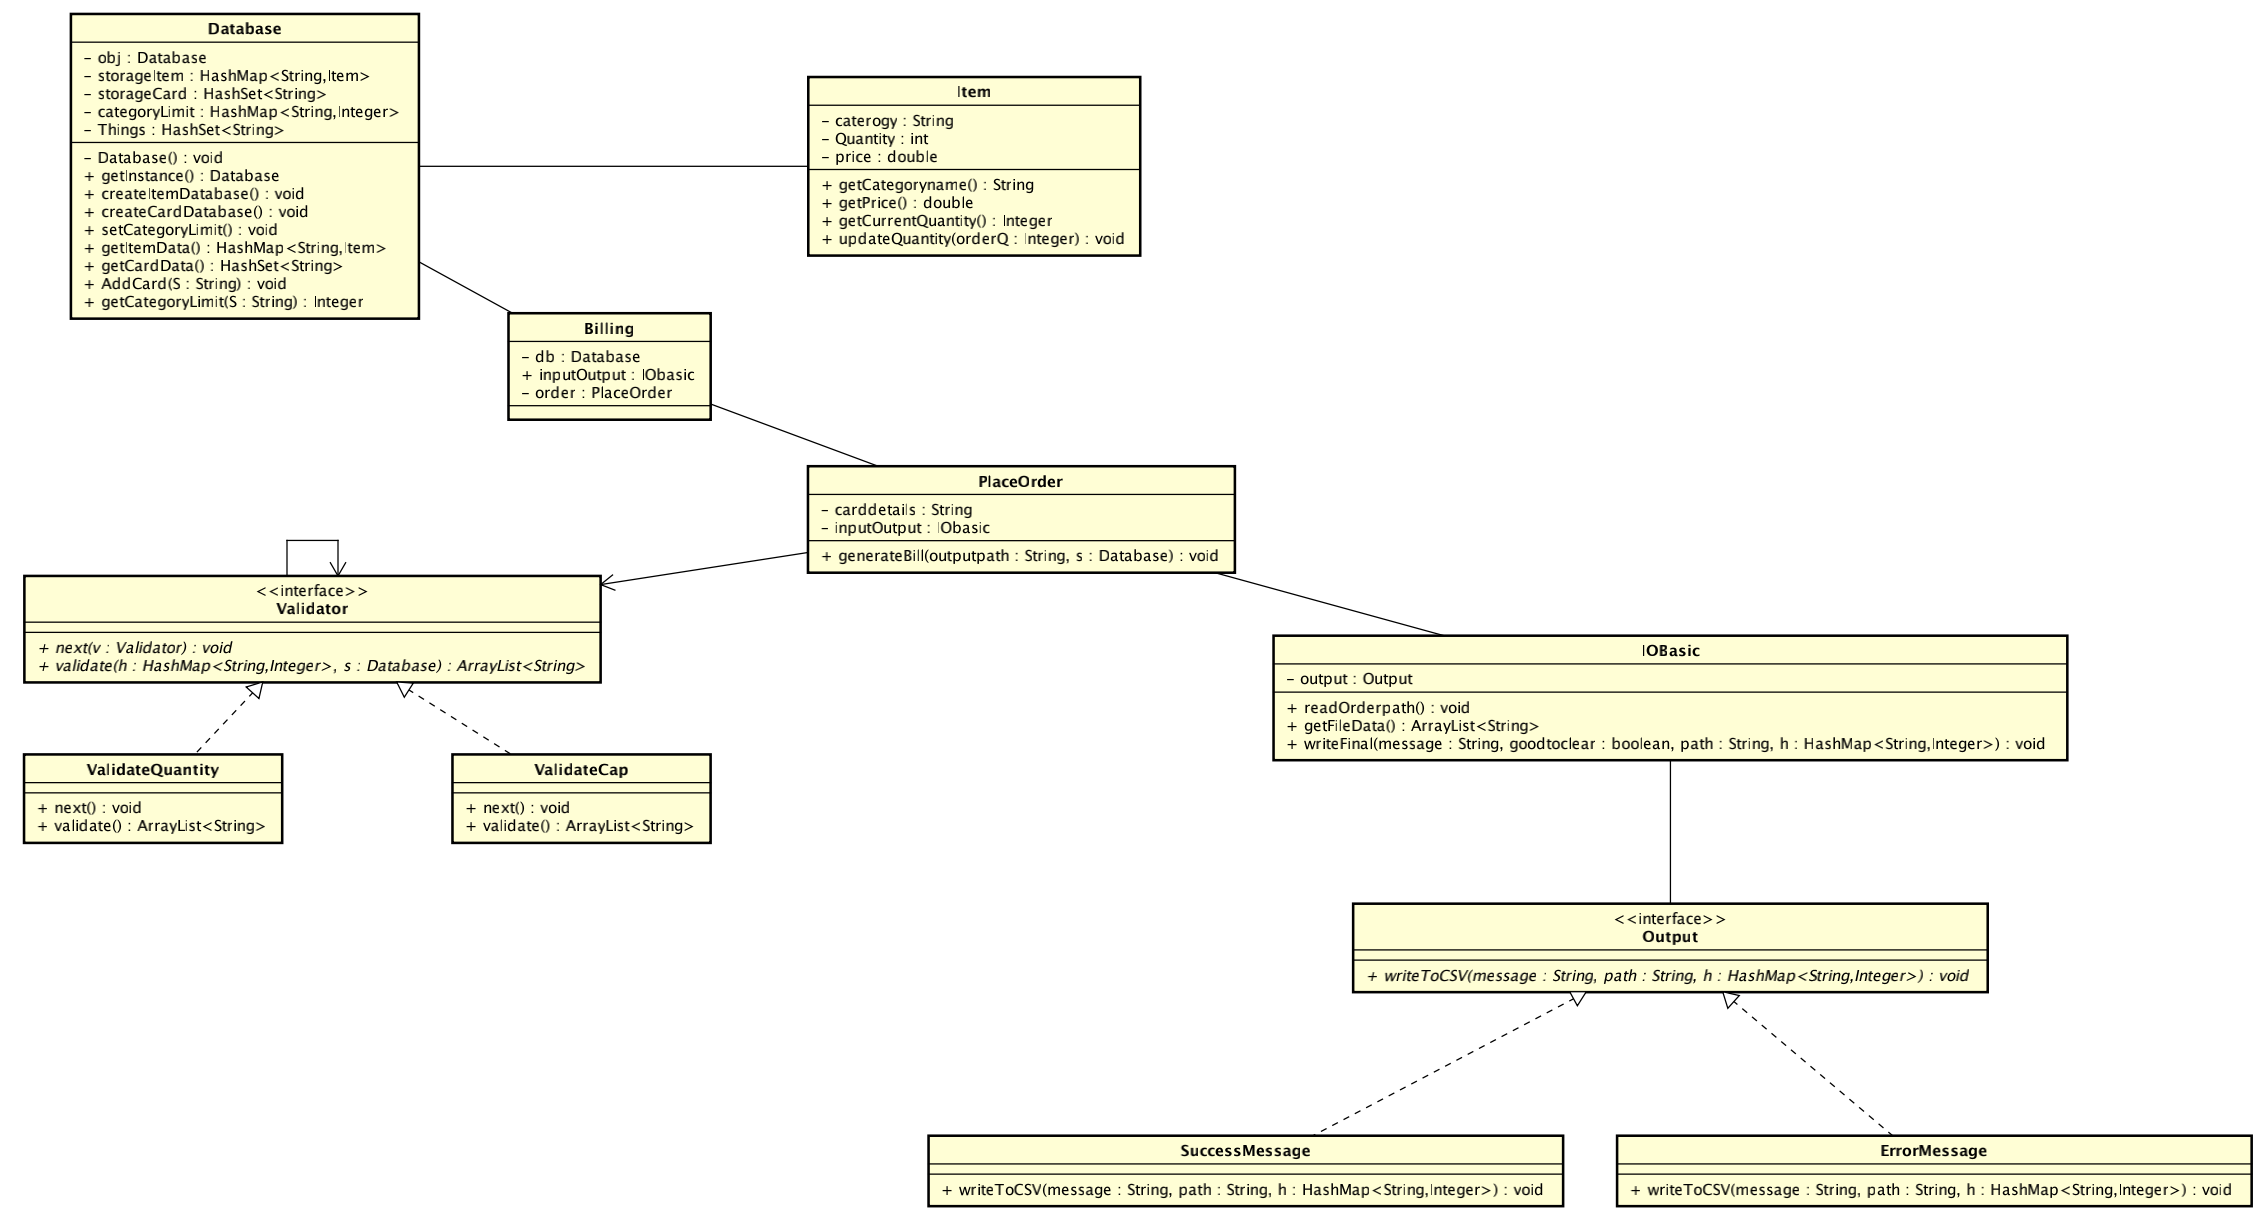
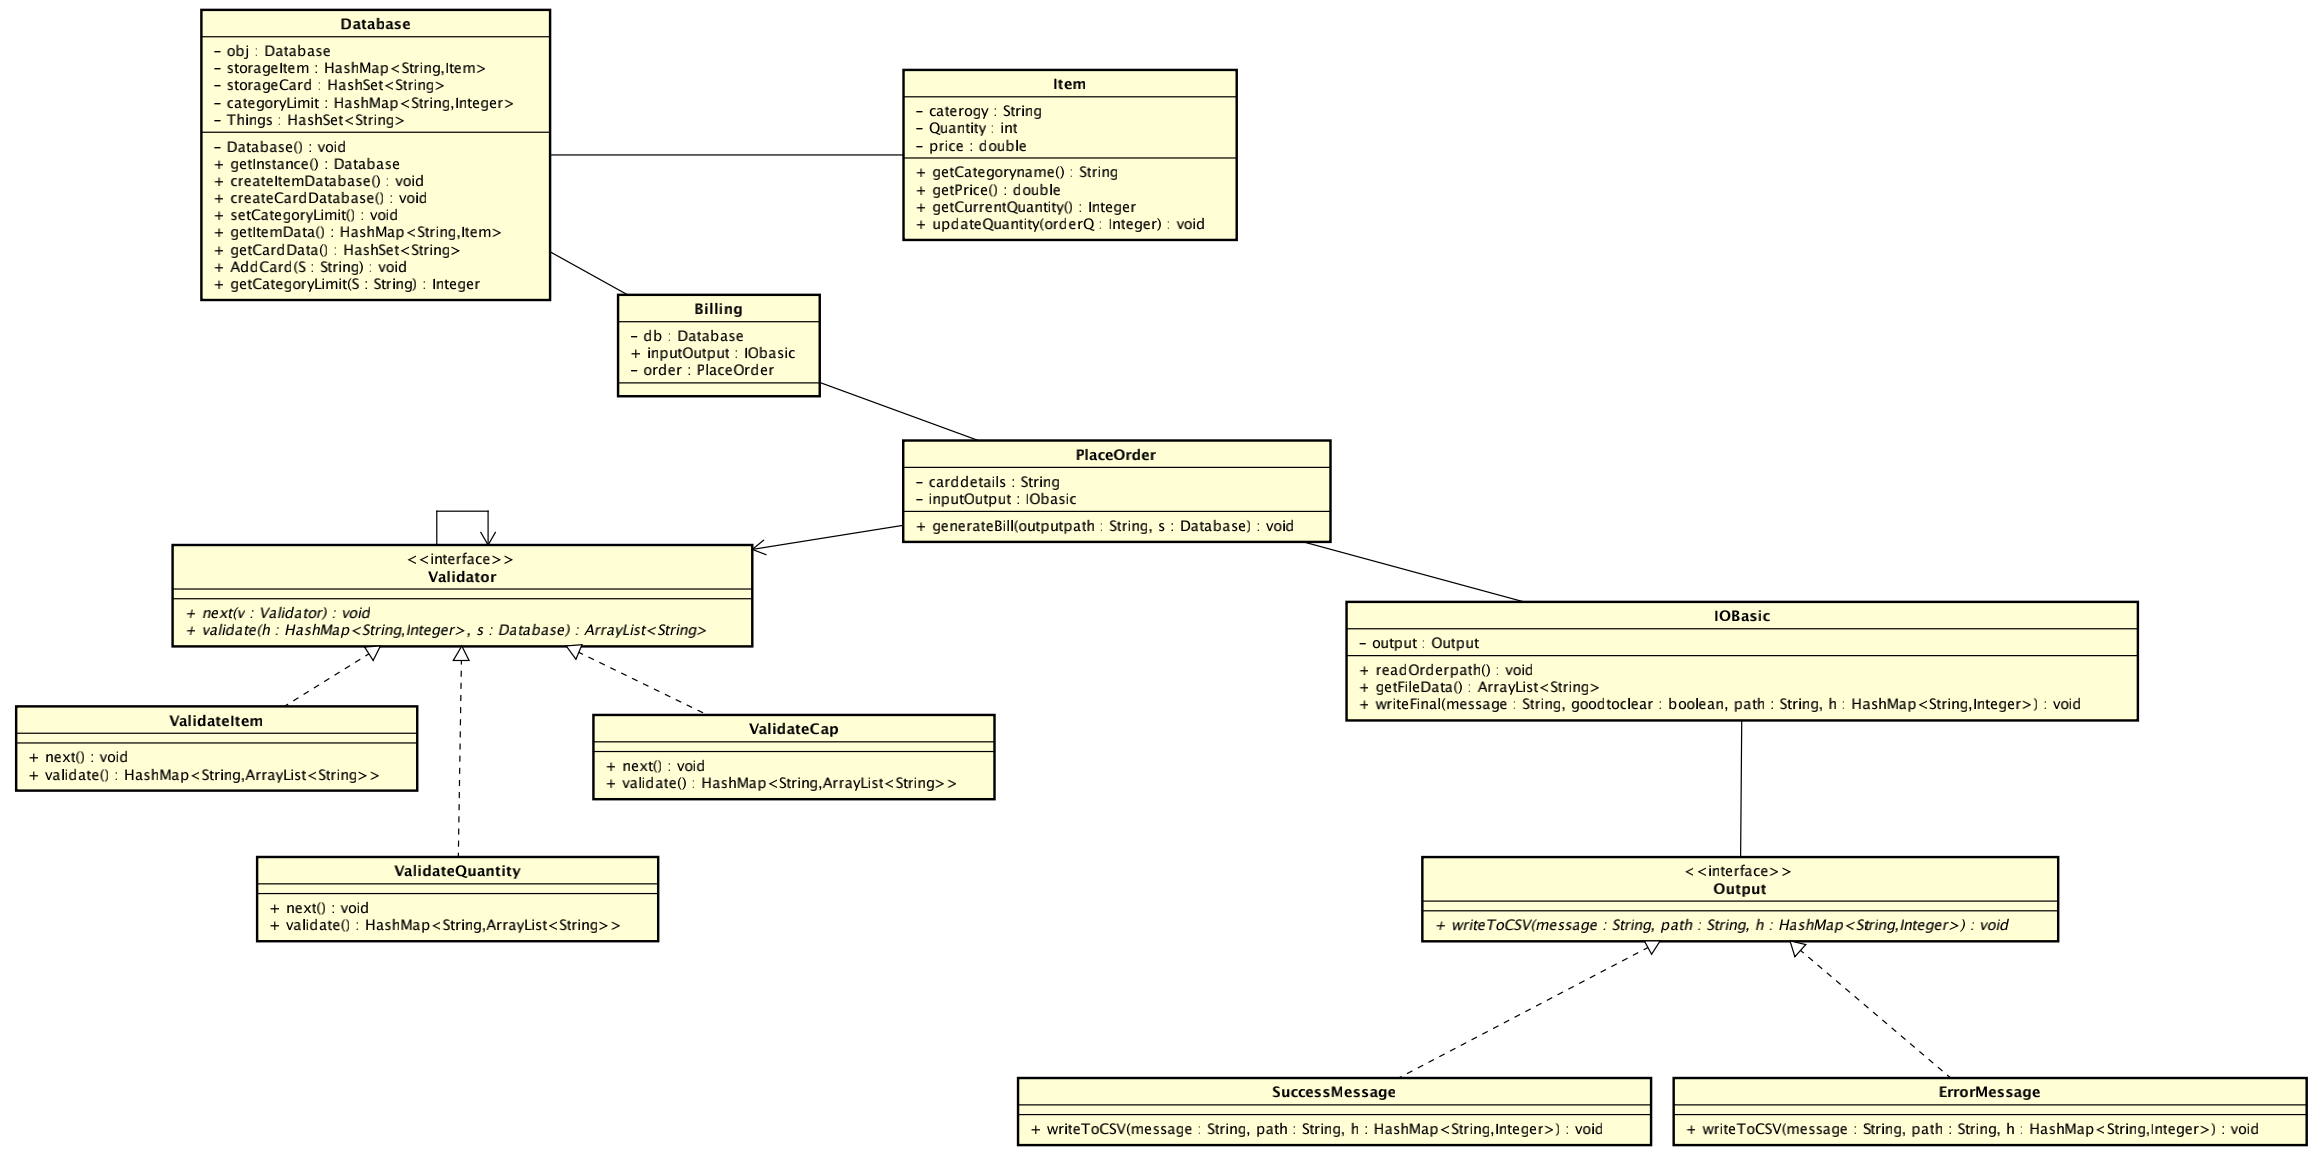
Update to diagram

diff --git a/Individual_project_CMPE202/src/order/PlacedOrder.java b/Individual_project_CMPE202/src/order/PlacedOrder.java
@@ -6,6 +6,7 @@ import java.util.*;
 import IO.IObasic;
 import project.Database;
 import project.Validate.ValidateCap;
+import project.Validate.ValidateItem;
 import project.Validate.ValidateQuantity;
 import project.Validate.Validator;
 
@@ -19,9 +20,11 @@ public class PlacedOrder {
         inputfile = this.inputOutput.getFileData();
         Double totalOrder = 0.0;
         StringBuilder sb = new StringBuilder();
+        Validator things = new ValidateItem();
         Validator quantity = new ValidateQuantity();
         Validator stock = new ValidateCap();
         
+        things.next(quantity);
         quantity.next(stock);
         
         HashMap<String, Integer> BillOrder = new HashMap<String, Integer>();
@@ -39,13 +42,20 @@ public class PlacedOrder {
         boolean goodTogo = true;
         HashMap<String,ArrayList<String>> ans1 = new HashMap<String,ArrayList<String>> ();
         ArrayList<String> ans2 = new ArrayList<String>();
-        ans1 = quantity.validate(BillOrder, s);
+        ans1 = things.validate(BillOrder, s);
         Iterator it_ans1 = ans1.entrySet().iterator();
         HashMap.Entry pair_ans1 = (HashMap.Entry)it_ans1.next();
         String s1 = (String) pair_ans1.getKey();
         ans2 = (ArrayList<String>) pair_ans1.getValue();
         if(ans2.size()!=0){
         	if(s1 == "1") {
+        		finalOutput = "Following items don't exist \n";
+	            for (String num : ans2) { 	
+	                finalOutput += num + "\n"; 		
+	            }
+	            goodTogo = false;
+        	}
+        	else if(s1 == "2") {
         		finalOutput = "Quantity more than the storage amount. Please reduce the quantity for \n";
 	            for (String num : ans2) { 	
 	                finalOutput += num + "\n"; 		
@@ -69,7 +79,8 @@ public class PlacedOrder {
         	Iterator<String> it_card = mp.iterator();
         	boolean hasCard = false;
         	while(it_card.hasNext()) {
-        		if(it_card.next() == carddetails) {
+        		String x = it_card.next();
+        		if(x.equals(carddetails)) {
         			hasCard = true;
         			break;
         		}

diff --git a/Individual_project_CMPE202/src/project/Database.java b/Individual_project_CMPE202/src/project/Database.java
@@ -7,6 +7,7 @@ public class Database {
 	private static Database obj;
 	HashMap<String, Item> storageItem = new HashMap<String, Item>();
 	HashSet<String> storageCard = new HashSet<String>();
+	HashSet<String> things = new HashSet<String>();
 	HashMap<String, Integer> categoryLimit = new HashMap<String, Integer>();
 	private Database() {
 		
@@ -24,14 +25,14 @@ public class Database {
 		storageItem.put("Shampoo", new Item("Essentials", 200, 10));
 		storageItem.put("Milk", new Item("Essentials", 100, 5));
 		storageItem.put("Perfume", new Item("Luxury", 50, 50));
-		storageItem.put("chocolates", new Item("Luxury", 300, 3));
+		storageItem.put("Chocolates", new Item("Luxury", 300, 3));
 		storageItem.put("Handbag", new Item("Luxury", 75, 150));
 		storageItem.put("Wallet", new Item("Luxury", 100, 100));
 		storageItem.put("Bedsheet", new Item("Misc", 150, 75));
 		storageItem.put("Footware", new Item("Misc", 200, 25));
 		storageItem.put("HomeDecorPiece", new Item("Misc", 100, 40));
-		storageItem.put("Pen", new Item("Misc", 400, 3));
-		storageItem.put("Pencil", new Item("Misc", 400, 3));
+		storageItem.put("pen", new Item("Misc", 400, 3));
+		storageItem.put("pencil", new Item("Misc", 400, 3));
 	}
 	
 	void createCardDatabase(){
@@ -47,6 +48,22 @@ public class Database {
 		categoryLimit.put("Misc", 6);
 	}
 	
+	void setThings() {
+		things.add("Clothes");
+		things.add("Soap");
+		things.add("Shampoo");
+		things.add("Milk");
+		things.add("Perfume");
+		things.add("Chocolates");
+		things.add("Handbag");
+		things.add("Wallet");
+		things.add("Bedsheet");
+		things.add("Footware");
+		things.add("HomeDecorPiece");
+		things.add("pen");
+		things.add("pencil");
+	}
+	
 	
 	public HashMap<String, Item> getItemData() {
 		return storageItem;
@@ -54,6 +71,10 @@ public class Database {
 	
 	public HashSet<String> getCardData(){
 		return storageCard;
+	}
+	
+	public HashSet<String> getThings(){
+		return things;
 	}
 	
 	public void AddCard(String S) {

diff --git a/Individual_project_CMPE202/src/project/Validate/ValidateItem.java b/Individual_project_CMPE202/src/project/Validate/ValidateItem.java
@@ -2,12 +2,13 @@ package project.Validate;
 
 import java.util.ArrayList;
 import java.util.HashMap;
+import java.util.HashSet;
 import java.util.Iterator;
 
 import project.Database;
-import project.Item;
 
-public class ValidateQuantity implements Validator{
+public class ValidateItem implements Validator{
+	
 	
 	private Validator nextValidator = null;
 	boolean hasenough = true;
@@ -15,31 +16,29 @@ public class ValidateQuantity implements Validator{
 	public void next(Validator v) {
 		// TODO Auto-generated method stub
 		this.nextValidator = v;
-		
 	}
-	
+
 	@Override
-	public HashMap<String,ArrayList<String>> validate(HashMap<String,Integer> h, Database s) {
+	public HashMap<String, ArrayList<String>> validate(HashMap<String, Integer> h, Database s) {
 		// TODO Auto-generated method stub
-		//Database s = Database.getInstance();
 		Iterator it = h.entrySet().iterator();
 		ArrayList<String> item = new ArrayList<String>();
 		HashMap<String,ArrayList<String>> mp = new HashMap<String,ArrayList<String>>();
+		HashSet<String> things = s.getThings();
 		while(it.hasNext()) {
 			HashMap.Entry pair = (HashMap.Entry)it.next();
-	        Integer quantity = s.getItemData().get(pair.getKey()).getCurrentQuantity();
-	        if(quantity < (Integer)pair.getValue()) {
+	        if(!things.contains((String) pair.getKey())) {
+	        	System.out.println((String) pair.getKey());
 	        	item.add((String) pair.getKey() + " " + String.valueOf(pair.getValue()));
 	        }
 		}
 		if(item.size()>0) {
-			mp.put("2", item);
+			mp.put("1", item);
 			return mp;
 		}
 		else {
 			return nextValidator.validate(h, s);
 		}
 	}
-	
-	
+
 }

diff --git a/Individual_project_CMPE202/src/project/Billing.java b/Individual_project_CMPE202/src/project/Billing.java
@@ -19,6 +19,7 @@ public class Billing {
 		db.createCardDatabase();
 		db.createItemDatabase();
 		db.setcategoryLimit();
+		db.setThings();
 		
 		IObasic inputOutput = new IObasic();
 		
@@ -29,27 +30,6 @@ public class Billing {
 	    
 	    PlacedOrder order = new PlacedOrder();
         order.generateBill(order_path, db);
-	}
-	
-	public void start() throws IOException {
-		
-		BufferedReader buffReader = new BufferedReader(new InputStreamReader(System.in));
-		
-		Database db = Database.getInstance();
-		db.createCardDatabase();
-		db.createItemDatabase();
-		db.setcategoryLimit();
-		
-		IObasic inputOutput = new IObasic();
-		
-		System.out.println("\nPlease enter File Path of Order File: ");
-		
-	    String order_path = buffReader.readLine();
-	    //inputOutput.readOrderpath(order_path);
-	    
-	    PlacedOrder order = new PlacedOrder();
-        order.generateBill(order_path, db);
-	    
 	}
 
 }
